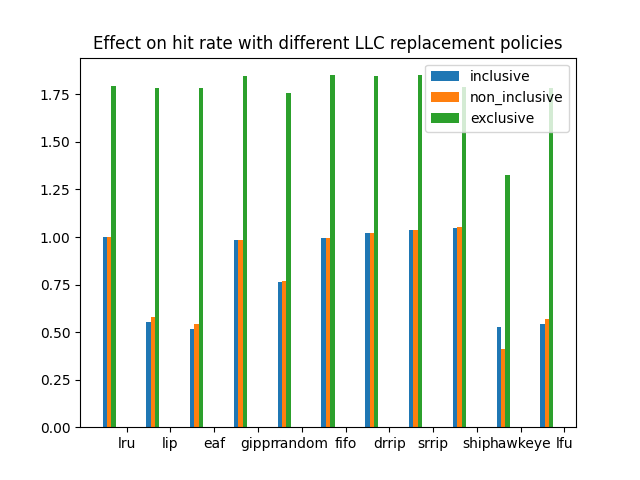
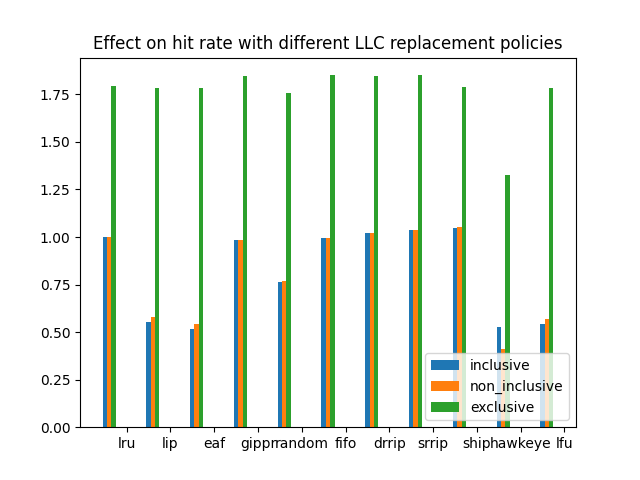
ye le

Changed region(s): [[0.6562, 0.7188, 0.875, 0.9062], [0.6562, 0.125, 0.875, 0.2812]]

diff --git a/run_sim.py b/run_sim.py
@@ -10,7 +10,7 @@ to_run = int(sys.argv[1])
 NUM_INSTR = 30000000
 
 
-cache_policy = ["inclusive" ,"non_inclusive"]
+cache_policy = ["inclusive" ,"non_inclusive", "exclusive"]
 llc_repl = ["lru", "lip", "eaf", "gippr", "random", "fifo", "drrip", "srrip", "ship", "hawkeye", "lfu"]
 
 result_dir = "results/inc_exc"
@@ -68,7 +68,7 @@ for i in range(len(TRACES)):
         plt.bar(ind + width*k, data[0][i, :, k], width, label=cache_policy[k])
 
     plt.xticks(ind+ width*(len(llc_repl) - 1) /2 , llc_repl)
-    plt.legend()
+    plt.legend(loc = 'lower right')
     plt.title("Effect on IPC with different LLC replacement policies")
     # plt.show()
     plt.savefig(f"{result_dir}/pics/{TRACES[i][:-3]}_ipc.png")
@@ -78,7 +78,7 @@ for i in range(len(TRACES)):
         plt.bar(ind + width*k, data[1][i, :, k], width, label=cache_policy[k])
 
     plt.xticks(ind + width*(len(llc_repl) - 1) /2 , llc_repl)
-    plt.legend()
+    plt.legend(loc = 'lower right')
     plt.title("Effect on hit rate with different LLC replacement policies")
     # plt.show()
     plt.savefig(f"{result_dir}/pics/{TRACES[i][:-3]}_hit.png")
@@ -89,7 +89,7 @@ for i in range(len(TRACES)):
         plt.bar(ind + width*k, data[2][i, :, k], width, label=cache_policy[k])
 
     plt.xticks(ind + width*(len(llc_repl) - 1) /2 , llc_repl)
-    plt.legend()
+    plt.legend(loc = 'lower right')
     plt.title("Effect on MPKI with different LLC replacement policies")
     # plt.show()
     plt.savefig(f"{result_dir}/pics/{TRACES[i][:-3]}_mpki.png")
